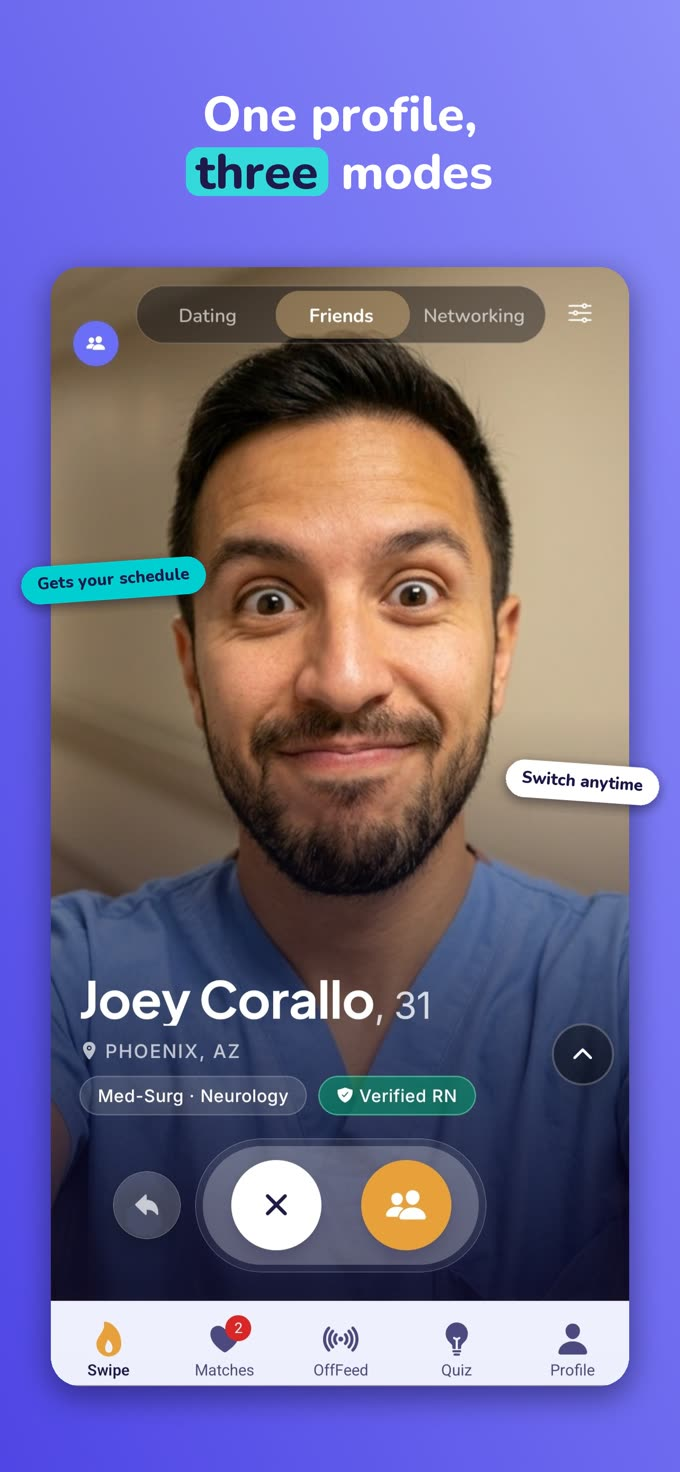
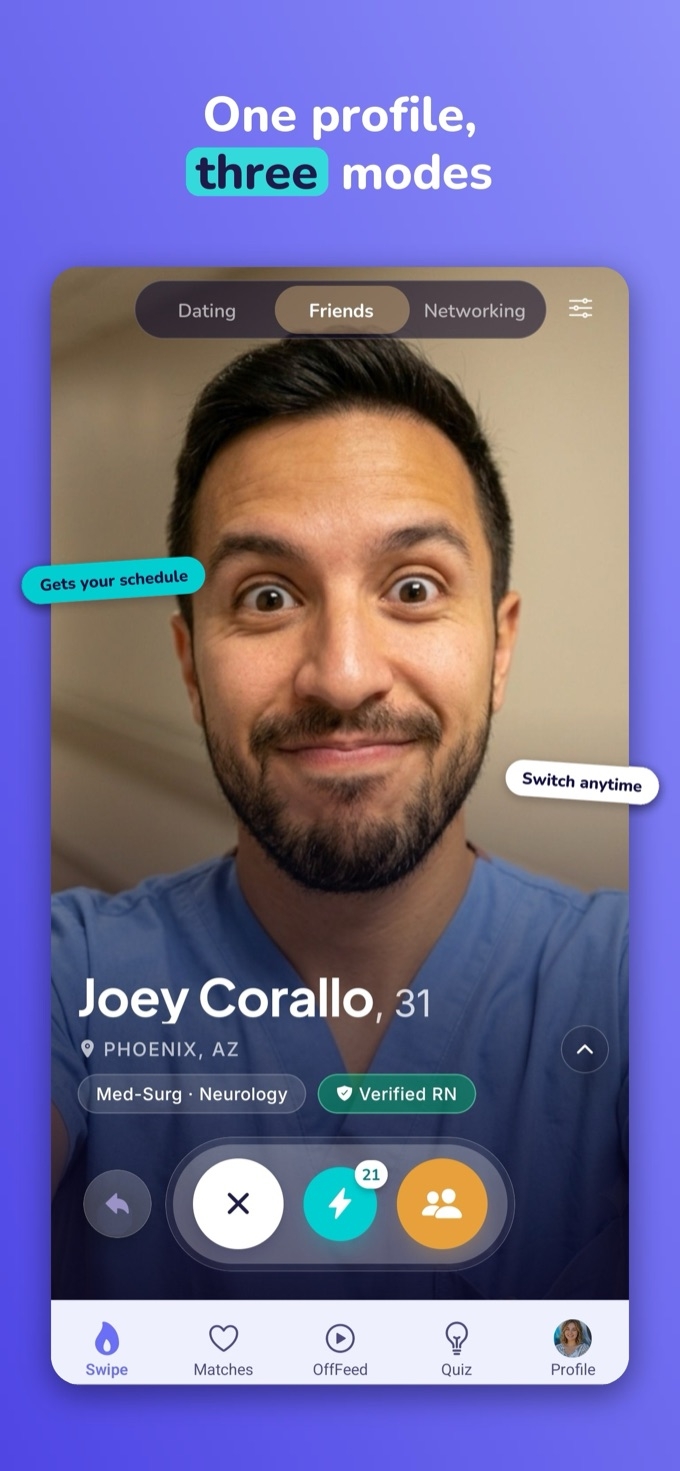
Update the Modes and OffFeed carousel slides to the current UI
Swap in the Sep 29 store shots: Joey Corallo now shows the Spark button
between Pass and Connect, and both slides carry the redesigned tab bar
(OffFeed play icon, profile photo on the Profile tab).

diff --git a/index.html b/index.html
@@ -759,7 +759,7 @@
       <div class="shots-track" id="shots-track"
            role="group" aria-roledescription="carousel" aria-label="OFFUNIT app screens">
         <div class="shot"><img src="./slide-verified.jpg" width="680" height="1471" alt="Know they're really a nurse — Sarah Jenkins' profile with a Verified RN badge, ICU specialty and night-shift tag." /></div>
-        <div class="shot"><img src="./slide-modes.jpg"    width="680" height="1471" loading="lazy" alt="One profile, three modes — the same nurse switching between Dating, Friends and Networking." /></div>
+        <div class="shot"><img src="./slide-modes.jpg"    width="680" height="1471" loading="lazy" alt="One profile, three modes — Joey Corallo, a Verified RN, in Friends mode with the Spark button beside Pass and Connect." /></div>
         <div class="shot"><img src="./slide-offfeed.jpg"  width="680" height="1471" loading="lazy" alt="Find your people — the OffFeed, where nurses post wins, rants and memes." /></div>
         <div class="shot"><img src="./slide-match.jpg"    width="680" height="1471" loading="lazy" alt="When they page back — a mutual page turning into a match, with a Send Message button." /></div>
         <div class="shot"><img src="./slide-prompts.jpg"  width="680" height="1471" loading="lazy" alt="Prompts that actually fit — a nurse answering 'the most chaotic shift I survived'." /></div>
